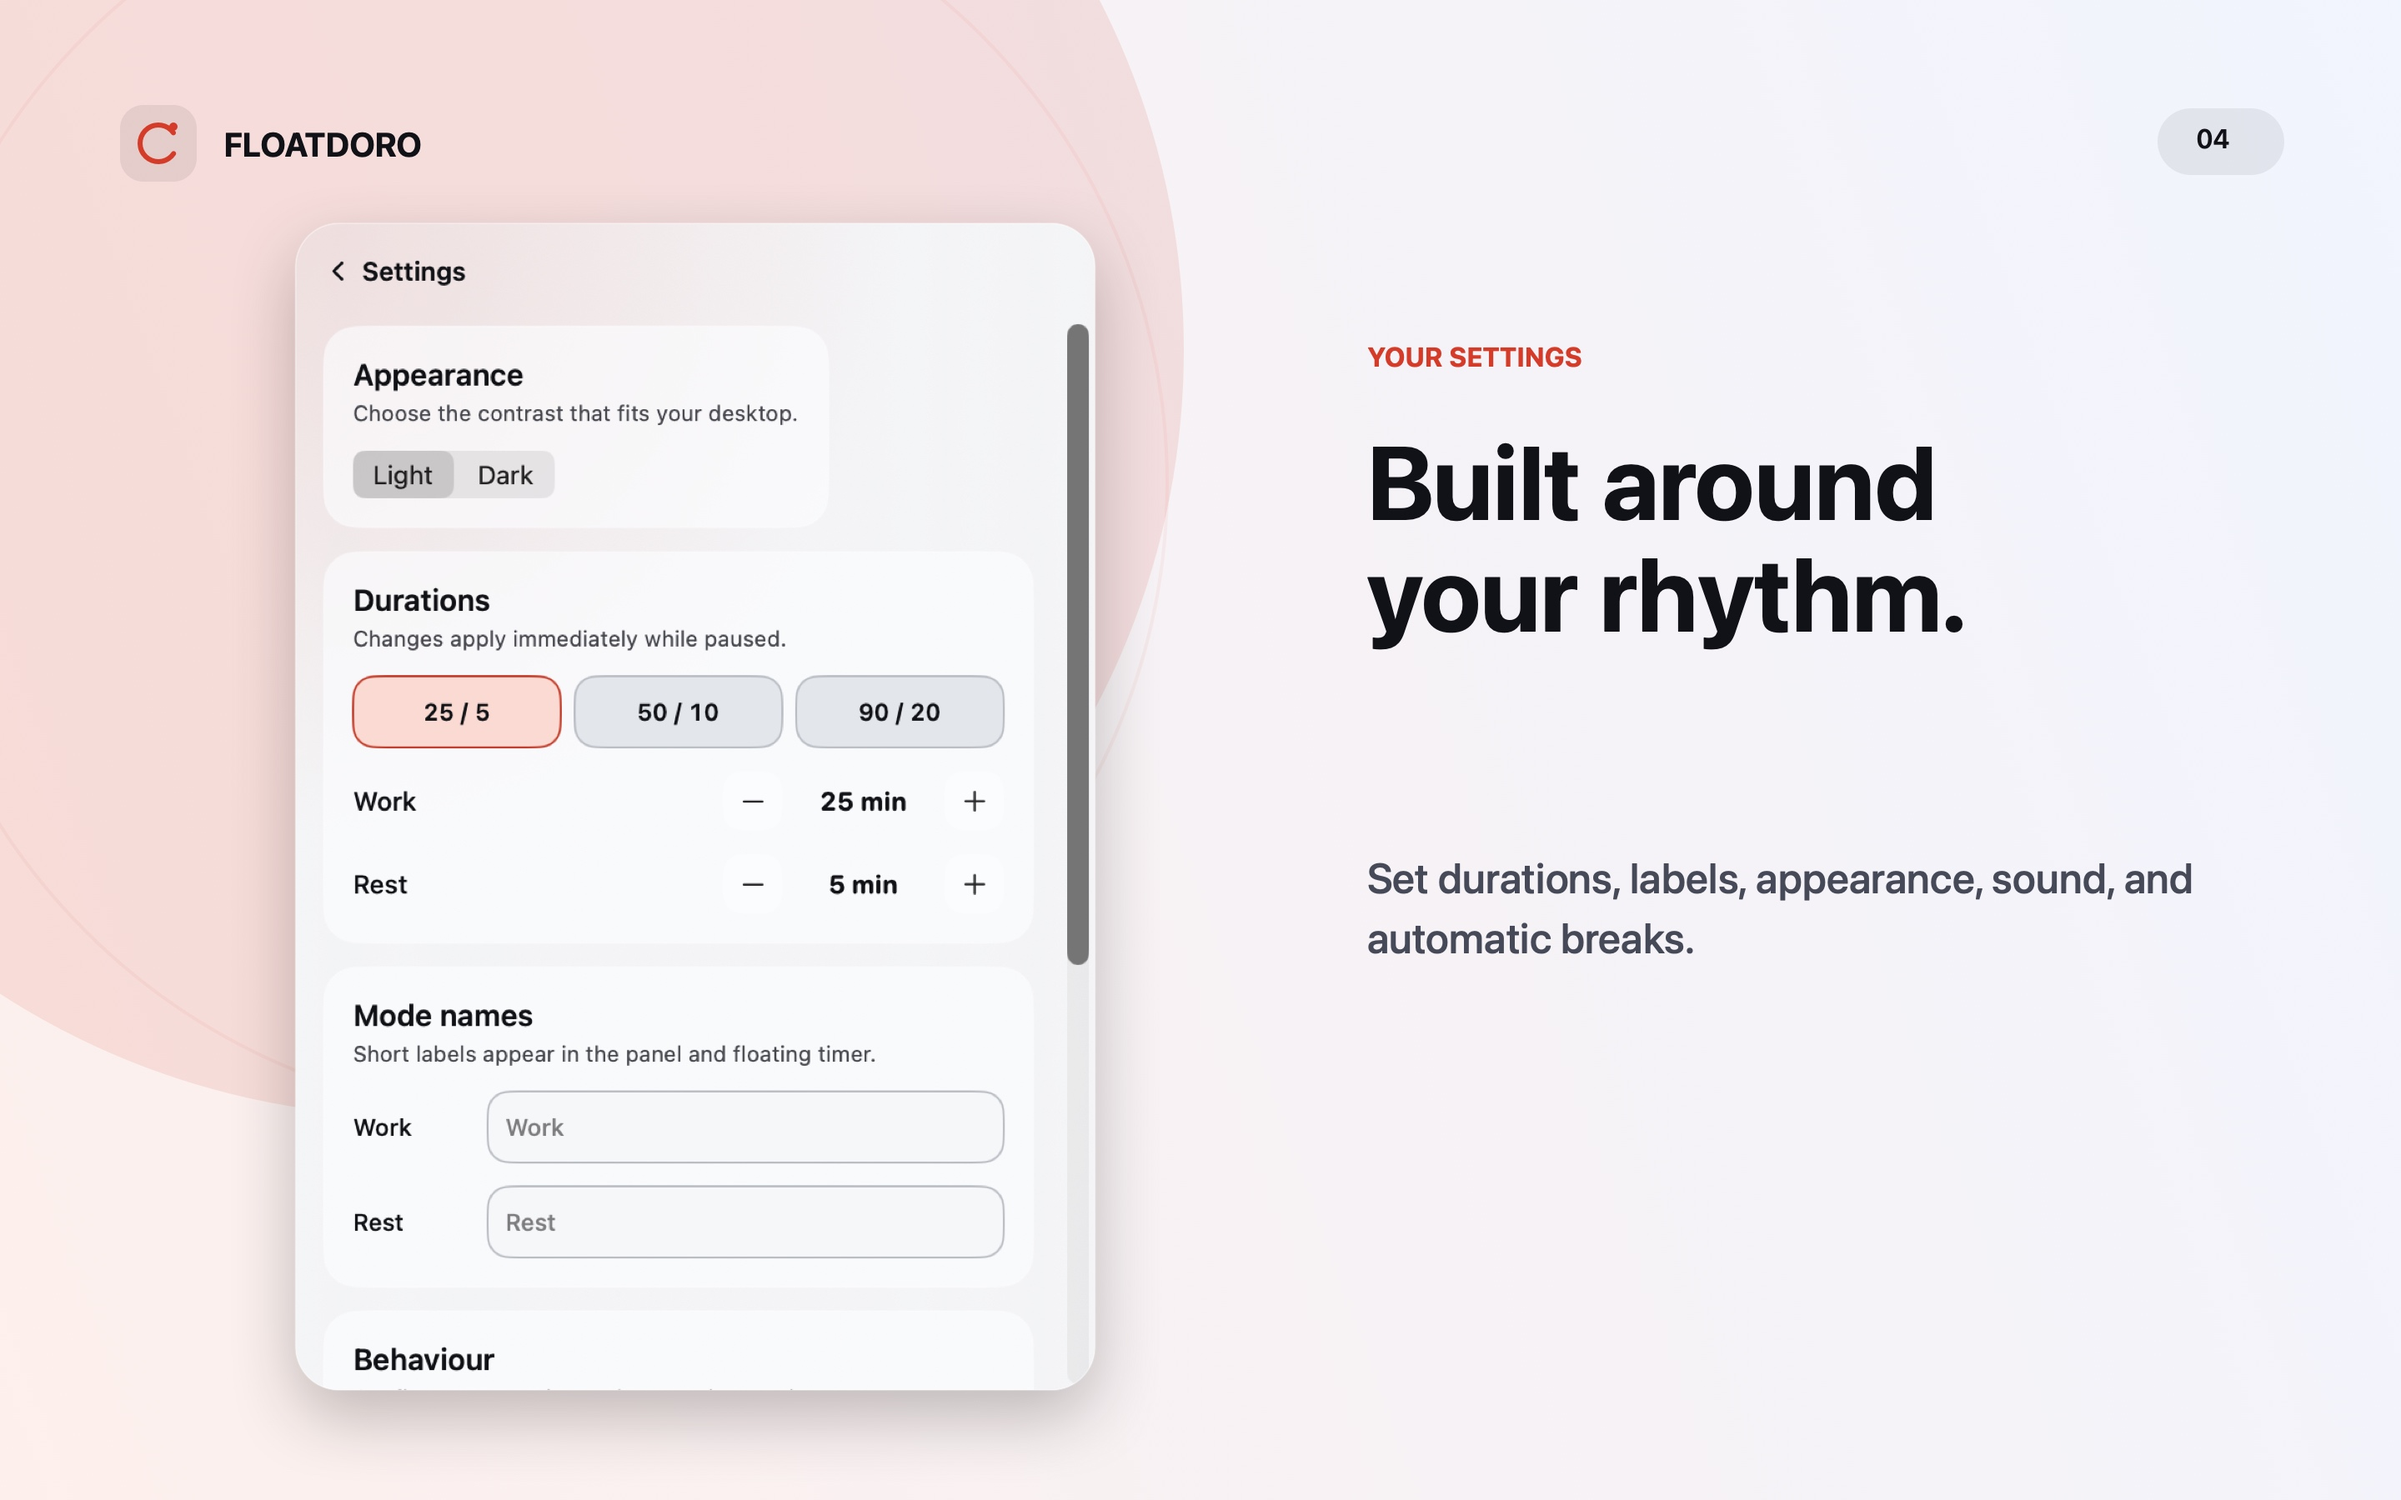
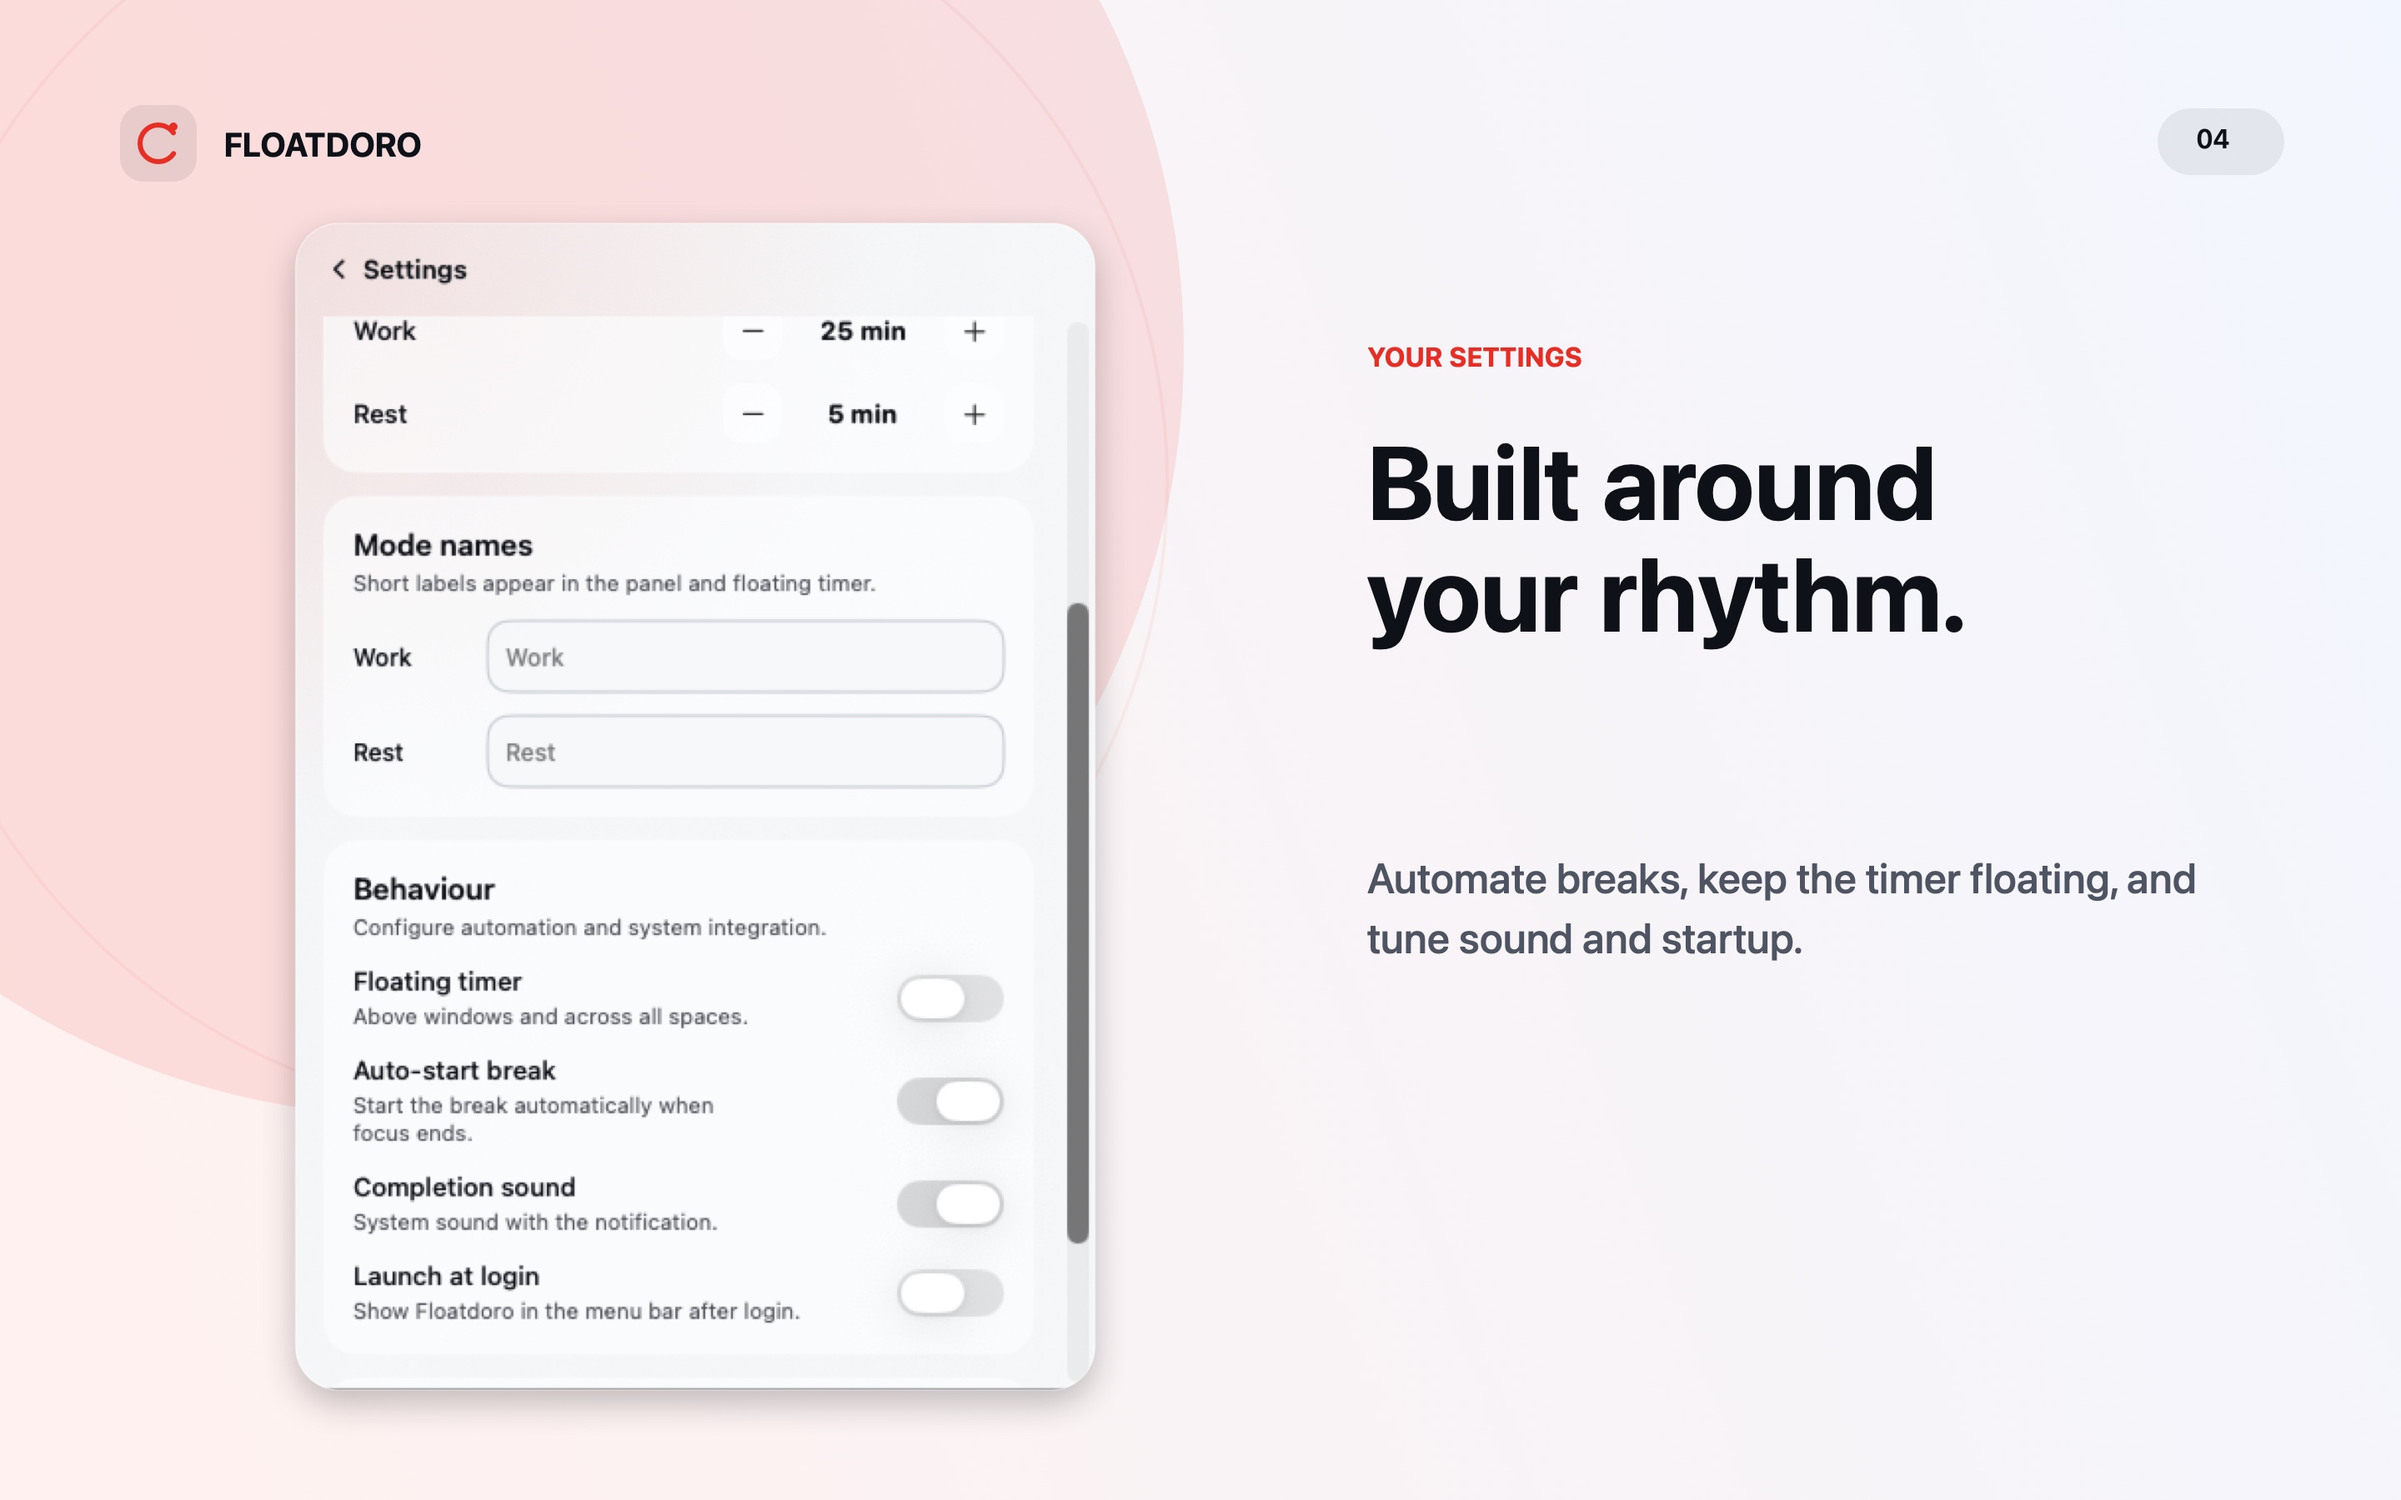
Harden TestFlight upload and refresh App Store screenshots

diff --git a/scripts/build_app_store_screenshots.swift b/scripts/build_app_store_screenshots.swift
@@ -20,6 +20,7 @@ private struct ScreenshotSpec {
 }
 
 private let canvas = NSSize(width: 1440, height: 900)
+private let outputScale: CGFloat = 2
 private let projectRoot = URL(fileURLWithPath: FileManager.default.currentDirectoryPath)
 private let focusAccent = NSColor(srgbRed: 0.91, green: 0.18, blue: 0.14, alpha: 1)
 private let restAccent = NSColor(srgbRed: 0.18, green: 0.42, blue: 0.95, alpha: 1)
@@ -81,7 +82,7 @@ private let specs = [
         index: 4,
         eyebrow: "YOUR SETTINGS",
         title: "Built around\nyour rhythm.",
-        body: "Set durations, labels, appearance, sound, and automatic breaks.",
+        body: "Automate breaks, keep the timer floating, and tune sound and startup.",
         backgroundStart: NSColor(srgbRed: 1.00, green: 0.945, blue: 0.935, alpha: 1),
         backgroundEnd: NSColor(srgbRed: 0.95, green: 0.965, blue: 0.995, alpha: 1),
         accent: focusAccent,
@@ -141,7 +142,7 @@ private let specs = [
         index: 4,
         eyebrow: "ВАШИ НАСТРОЙКИ",
         title: "Работает\nв вашем ритме.",
-        body: "Настройте интервалы, названия, оформление, звук и автоматический отдых.",
+        body: "Автоматизируйте отдых, плавающий таймер, звук и запуск при входе.",
         backgroundStart: NSColor(srgbRed: 1.00, green: 0.945, blue: 0.935, alpha: 1),
         backgroundEnd: NSColor(srgbRed: 0.95, green: 0.965, blue: 0.995, alpha: 1),
         accent: focusAccent,
@@ -212,8 +213,28 @@ private func render(_ spec: ScreenshotSpec) throws {
         ])
     }
 
-    let image = NSImage(size: canvas)
-    image.lockFocus()
+    guard let bitmap = NSBitmapImageRep(
+        bitmapDataPlanes: nil,
+        pixelsWide: Int(canvas.width * outputScale),
+        pixelsHigh: Int(canvas.height * outputScale),
+        bitsPerSample: 8,
+        samplesPerPixel: 4,
+        hasAlpha: true,
+        isPlanar: false,
+        colorSpaceName: .deviceRGB,
+        bytesPerRow: 0,
+        bitsPerPixel: 0
+    ), let context = NSGraphicsContext(bitmapImageRep: bitmap) else {
+        throw NSError(domain: "FloatdoroScreenshots", code: 2, userInfo: [
+            NSLocalizedDescriptionKey: "Could not create the 2x render target"
+        ])
+    }
+
+    bitmap.size = canvas
+    NSGraphicsContext.saveGraphicsState()
+    NSGraphicsContext.current = context
+    defer { NSGraphicsContext.restoreGraphicsState() }
+    context.cgContext.scaleBy(x: outputScale, y: outputScale)
     NSGradient(starting: spec.backgroundStart, ending: spec.backgroundEnd)?.draw(
         in: NSRect(origin: .zero, size: canvas),
         angle: spec.screenshotOnLeft ? 20 : 160
@@ -327,11 +348,9 @@ private func render(_ spec: ScreenshotSpec) throws {
         )
     )
 
-    image.unlockFocus()
+    context.flushGraphics()
 
     guard
-        let tiff = image.tiffRepresentation,
-        let bitmap = NSBitmapImageRep(data: tiff),
         let jpeg = bitmap.representation(
             using: .jpeg,
             properties: [.compressionFactor: 0.94]

diff --git a/app-store/README.md b/app-store/README.md
@@ -65,10 +65,48 @@ swift scripts/build_app_store_screenshots.swift
 1. Merge and deploy the `docs` directory through GitHub Pages.
 2. Confirm that the privacy, support, and marketing URLs load publicly.
 3. Create the app record with the values above.
-4. Archive build `9` with version `1.0.3`.
-5. Validate and upload the archive from Xcode Organizer.
-6. Wait for processing and select the build under macOS 1.0.3.
-7. Complete App Privacy, age rating, availability, and pricing.
-8. Add the English and Russian metadata and screenshots.
-9. Paste the review notes and choose manual release.
-10. Submit for review.
+4. Confirm that processed build `9` is selected under macOS 1.0.3.
+5. Complete App Privacy, age rating, availability, and pricing.
+6. Add the English and Russian metadata and screenshots.
+7. Paste the review notes and choose manual release.
+8. Stop at the review gate. Submission and release are deliberate manual
+   actions in App Store Connect.
+
+## Unattended upload authentication
+
+The upload script uses an App Store Connect API key by default instead of
+silently relying on an expiring Apple Account session in Xcode. Keep the
+private `.p8` file outside the repository and readable only by the current
+user, then provide all three values:
+
+```sh
+export APPLE_API_KEY_ID="<key-id>"
+export APPLE_API_ISSUER_ID="<issuer-id>"
+export APPLE_API_PRIVATE_KEY_PATH="/secure/path/AuthKey_<key-id>.p8"
+chmod 600 "$APPLE_API_PRIVATE_KEY_PATH"
+
+./scripts/upload_testflight.sh --auth-check
+./scripts/upload_testflight.sh <version> <new-build-number>
+```
+
+`--auth-check` verifies the JWT with App Store Connect without archiving or
+uploading. Never reuse a build number that App Store Connect has already seen;
+Floatdoro 1.0.3 build `9` is already uploaded.
+
+For an intentional interactive fallback to the Apple Account saved in Xcode:
+
+```sh
+./scripts/upload_testflight.sh --xcode-session <version> <new-build-number>
+```
+
+The same API key variables are used by `scripts/notarize_app.sh`. A team API
+key with the Developer role is sufficient for build upload. Updating App Store
+metadata and screenshots requires a higher App Store Connect role, while
+submission and release remain manual gates. See Apple's documentation for
+[uploading builds](https://developer.apple.com/help/app-store-connect/manage-builds/upload-builds)
+and [creating API keys](https://developer.apple.com/documentation/appstoreconnectapi/creating-api-keys-for-app-store-connect-api).
+
+The tag release workflow reads the corresponding GitHub Actions secrets,
+checks API authentication, runs the exact release preflight, and uploads the
+new build to TestFlight before publishing the GitHub release. It does not
+submit the App Store version for review or release it.
